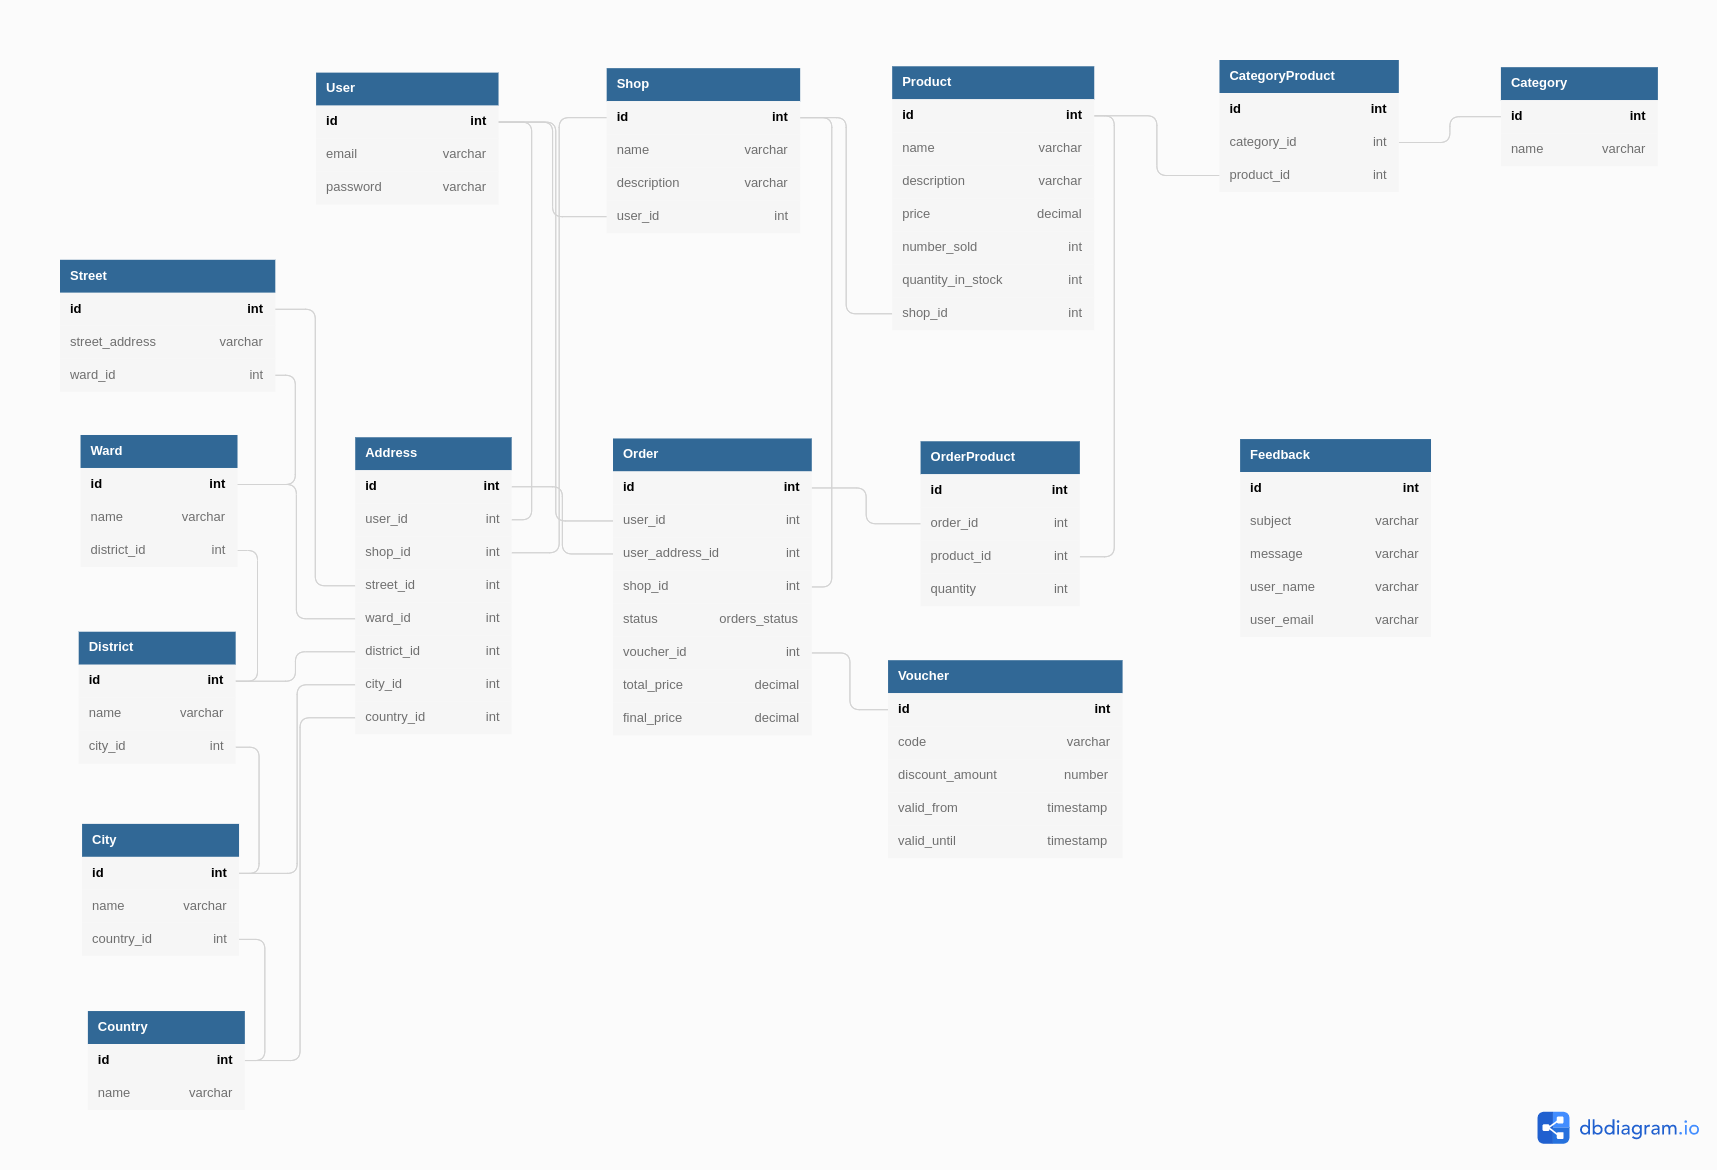
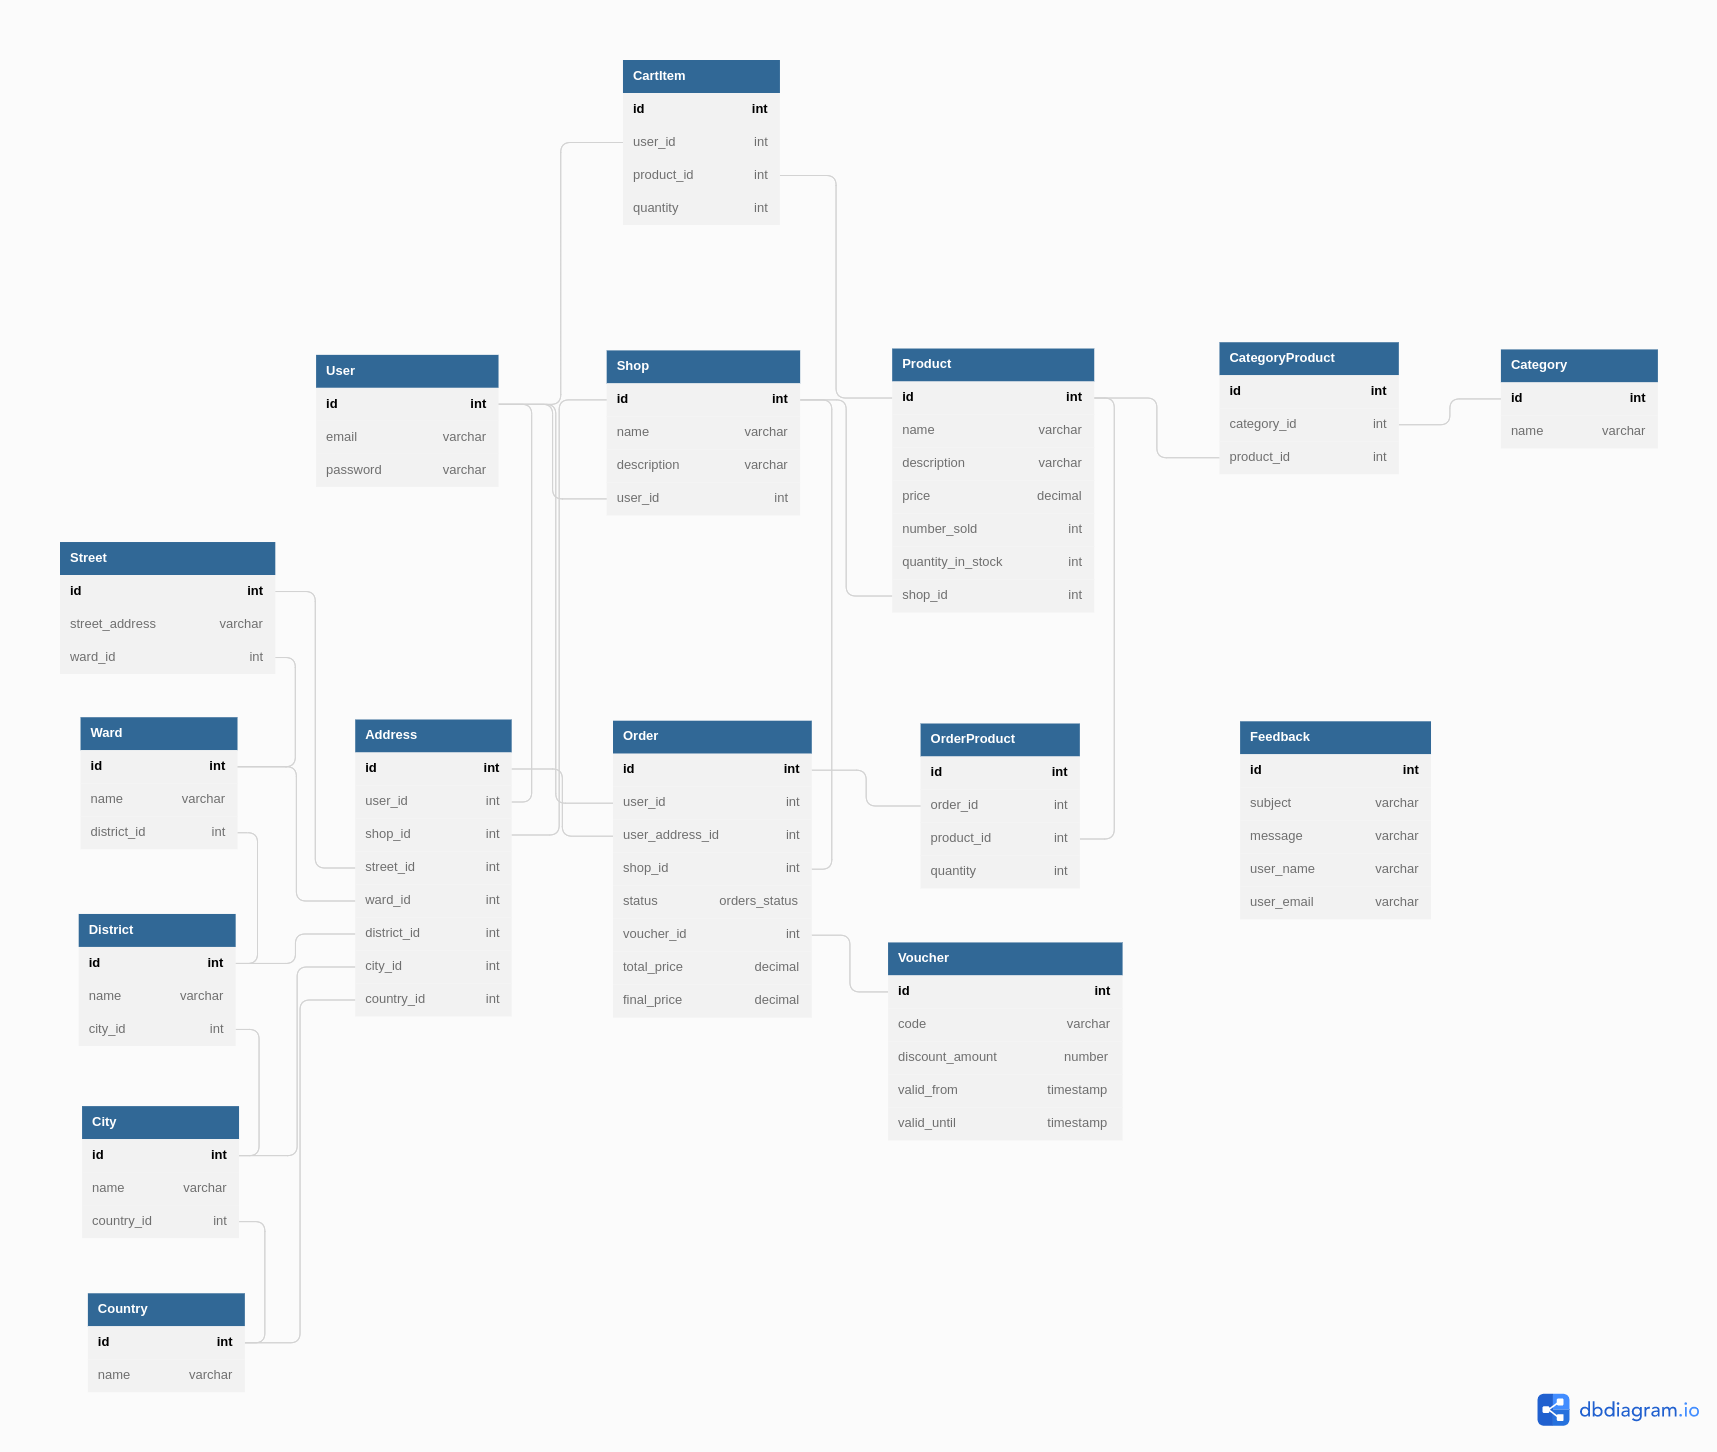
Add CartItem table in database, modify CartItemPolicy

diff --git a/app/controllers/cart_items_controller.rb b/app/controllers/cart_items_controller.rb
@@ -1,6 +1,7 @@
 class CartItemsController < ApplicationController
   before_action :set_product, only: [:create]
   before_action :set_cart_item, only: [:update, :destroy]
+  rescue_from Pundit::NotAuthorizedError, with: :user_not_authorized
   
   def index 
     authorize current_user, policy_class: CartItemPolicy
@@ -11,10 +12,11 @@ class CartItemsController < ApplicationController
 
   def create
     @cart_item = CartItem.find_or_create_by(product: @product, shop: @product.shop)
-
     authorize @cart_item
+
     @cart_item.user = current_user
     @cart_item.quantity += cart_item_params[:quantity].to_i
+   
     @cart_item.save
 
     respond_to do |format|
@@ -51,6 +53,7 @@ class CartItemsController < ApplicationController
   end
 
   def destroy_all 
+    authorize current_user, policy_class: CartItemPolicy
     current_user.cart_items.destroy_all
 
     respond_to do |format|
@@ -72,5 +75,11 @@ class CartItemsController < ApplicationController
 
   def cart_item_params
     params.require(:cart_item).permit(:product_id, :quantity)
+  end
+
+  def user_not_authorized
+    flash[:warning] = "Please login to access to your shopping cart!"
+
+    redirect_to new_user_session_path
   end
 end

diff --git a/app/policies/cart_item_policy.rb b/app/policies/cart_item_policy.rb
@@ -10,16 +10,16 @@ class CartItemPolicy < ApplicationPolicy
     user.present?
   end
 
-  def create? 
+  def create?
     user.present?
   end
 
-  def update? 
-    user.present?
+  def update?
+    user.present? && user.cart_items.include?(record)
   end
 
   def destroy?
-    user.present?
+    user.present? && user.cart_items.include?(record)
   end
 
   def destroy_all? 

diff --git a/spec/requests/cart_items_spec.rb b/spec/requests/cart_items_spec.rb
@@ -12,7 +12,9 @@ RSpec.describe "CartItems", type: :request do
     let(:commit) { "inc" }
 
     context "when user is a guest" do 
-      it_behaves_like "successful response"
+      it "redirects to login page" do 
+        expect(subject).to redirect_to new_user_session_path
+      end
     end
 
     describe "when user is a buyer" do

diff --git a/app/helpers/application_helper.rb b/app/helpers/application_helper.rb
@@ -25,6 +25,8 @@ module ApplicationHelper
       "danger"
     when "success"
       "success"
+    when "warning"
+      "warning"
     end
   end
 
